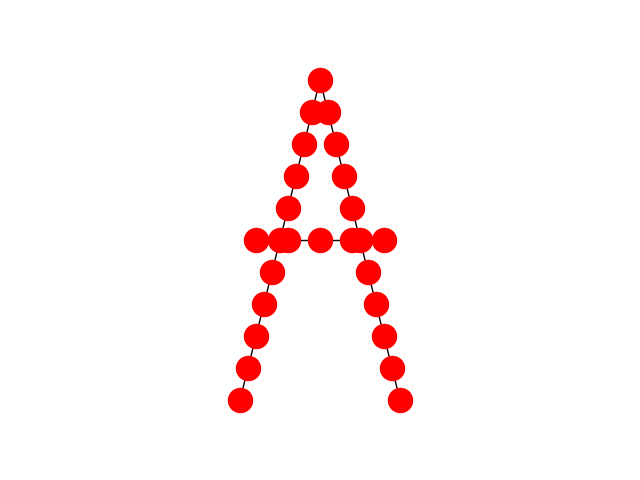
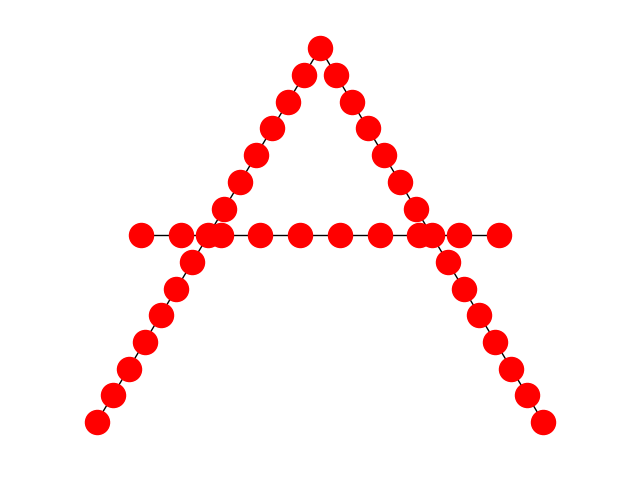
Normalization

Changed region(s): [[0.125, 0.0625, 0.875, 0.9062]]

diff --git a/generate_dataset.py b/generate_dataset.py
@@ -12,7 +12,7 @@ parser = argparse.ArgumentParser(description='Generate a dataset from a given pr
 
 # Prototypes
 parser.add_argument('--dirPrototypes', help='prototype folder', default=['./prototypes/Letters/'])
-parser.add_argument('--nodeThreshold', help='prototypes node threshold', default=None)
+parser.add_argument('--nodeThreshold', help='prototypes node threshold', default=0.4)
 
 # Dataset
 parser.add_argument('--dirDataset', help='dataset folder', default='./dataset/Letters/')
@@ -24,22 +24,6 @@ parser.add_argument('--unbalanced', action='store_true', default=False, help='Un
 
 args = parser.parse_args()
 
-
-def normalize(g):
-    coord = [v['coord'] for k, v in g.nodes(data=True)]
-    coord = np.array(coord)
-    g.graph['mean'] = np.mean(coord, axis=0).tolist()
-    g.graph['std'] = np.std(coord, axis=0).tolist()
-
-    for k, v in g.nodes(data=True):
-        g.node[k]['coord'] -= np.array(g.graph['mean'])
-
-        # Find all indices of std = 0
-        std = [x if x != 0 else 1 for x in g.graph['std']]
-        g.node[k]['coord'] = g.node[k]['coord']/std
-        g.node[k]['coord'] = g.node[k]['coord'].tolist()
-
-    return g
 
 if __name__ == '__main__':
 
@@ -79,5 +63,4 @@ if __name__ == '__main__':
         for s in range(len(f_set)):
             for sample in range(int(examples_x_class[s][i])):
                 g = el.distort()
-                g = normalize(g)
-                nx.write_gml(g, args.dirDataset+f_set[s]+str(sample)+'_'+el.getLabel()+'.gml')
+                nx.write_gml(g, args.dirDataset+f_set[s]+str(sample)+'_'+el.get_label()+'.gml')

diff --git a/Element.py b/Element.py
@@ -3,18 +3,18 @@ from __future__ import division
 import networkx as nx
 import numpy as np
 
-from Plotter import plot_graph
 
 class Element:
     def __init__(self, f_name):
-        self.el = nx.read_gml(f_name)
+        self.el = self.normalize(nx.read_gml(f_name))
         self.label = self.el.graph['class']
 
-    def getLabel(self):
+    def get_label(self):
         return self.label
 
     def distort(self):
-        return self.el
+        g = self.el
+        return self.normalize(g)
 
     def add_nodes(self, d):
 
@@ -42,4 +42,21 @@ class Element:
                 g.add_edge(len(g.node)-2, len(g.node)-1)
 
             g.add_edge(len(g.node) - 1, t)
-        self.el = g
+        self.el = self.normalize(g)
+
+    @staticmethod
+    def normalize(g):
+        coord = [v['coord'] for k, v in g.nodes(data=True)]
+        coord = np.array(coord)
+        g.graph['mean'] = np.mean(coord, axis=0).tolist()
+        g.graph['std'] = np.std(coord, axis=0).tolist()
+
+        for k, v in g.nodes(data=True):
+            g.node[k]['coord'] -= np.array(g.graph['mean'])
+
+            # Find all indices of std = 0
+            std = [x if x != 0 else 1 for x in g.graph['std']]
+            g.node[k]['coord'] = g.node[k]['coord'] / std
+            g.node[k]['coord'] = g.node[k]['coord'].tolist()
+
+        return g

diff --git a/Plotter.py b/Plotter.py
@@ -2,6 +2,7 @@ import networkx as nx
 import matplotlib.pyplot as plt
 import numpy as np
 
+
 def plot_graph(g, show=False, save_path=''):
     fig = plt.figure()
     position = {k: v['coord'] for k, v in g.node.items()}

diff --git a/README.md b/README.md
@@ -10,11 +10,11 @@ Synthetic graph database generation. Each class is generated with a prototype an
 
 Controlled by __--nodeThreshold__ parameter, increase the number of nodes of the prototypes before the deformation. It tries to add a node at the specified distance, equispaced following the edges.
 
-Some examples with graph A:
+Some examples with graph A normalized before and after adding the nodes:
 
 |Original graph |
 | ------------- |
-|<img src="https://github.com/priba/graph_db/blob/master/prototypes/Letters/A.png" width="200">|
+|<img src="https://github.com/priba/graph_db/blob/master/readme_plots/A.png" width="200">|
 
 | --nodeThreshold  | Image | | --nodeThreshold  | Image |
 | ------------- | ------------- | ------------- | ------------- | ------------- |
